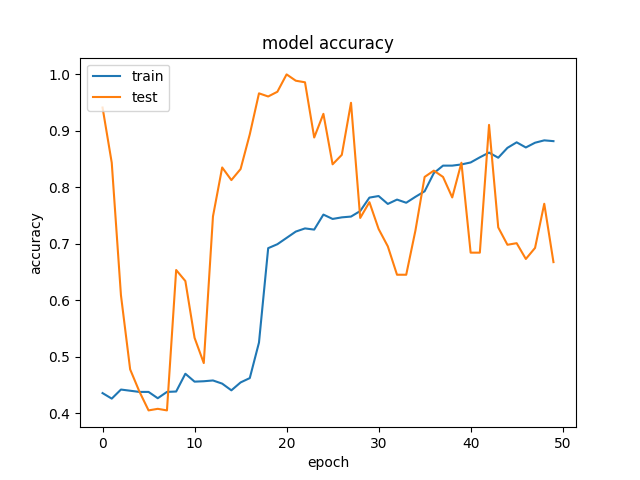
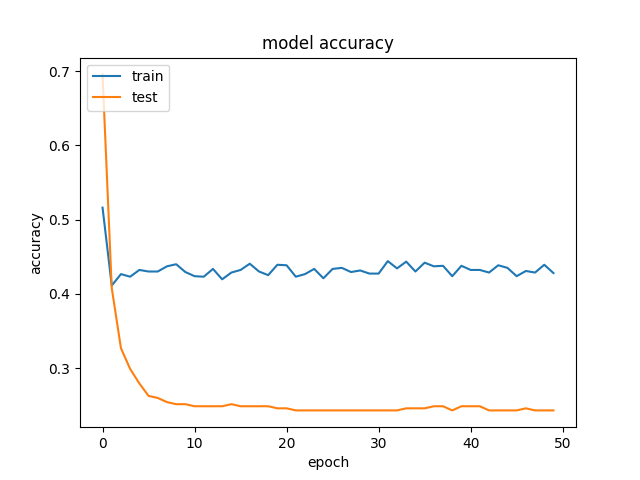
aha

diff --git a/one_gpu_nih.py b/one_gpu_nih.py
@@ -39,7 +39,7 @@ df_sample = dataframe.sample(frac = 0.70, random_state = 5)
 deasises = list(df_sample["Finding Labels"].unique())
 
 #train data set
-df_sample_train = df_sample.sample(frac = 0.01, random_state = 5)
+df_sample_train = df_sample.sample(frac = 0.55, random_state = 5)
 # isolated for the test
 df_sample_test = dataframe.drop(df_sample.index)
 
